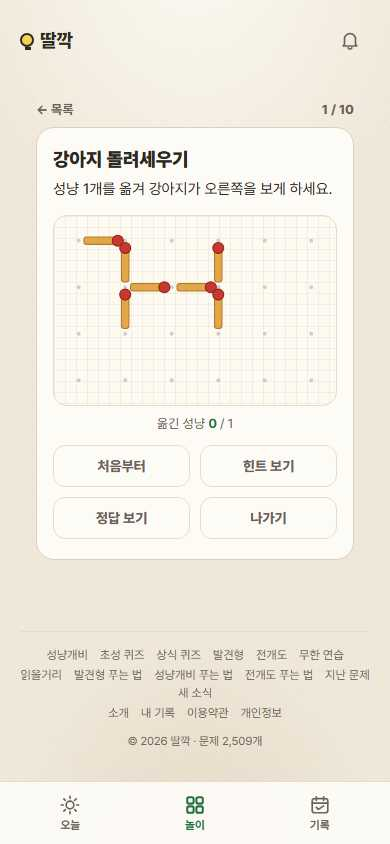
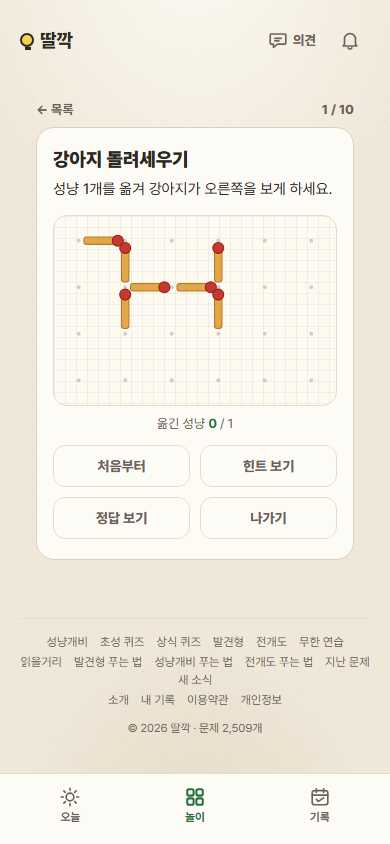
docs: 점검 보고서에 10/14 저녁 작업 반영 — 사용자 지적 5건과 고침, 점검 묶음, 결과 화면 · 새 소식 정리, 발견형 2개

Changed region(s): [[0.0308, 0.7393, 0.9538, 0.9858], [0.6769, 0.0308, 0.8, 0.0616]]

diff --git a/docs/audit-2026-10-14/index.html b/docs/audit-2026-10-14/index.html
@@ -67,13 +67,13 @@
 	figure.wide img { width: 100%; border-radius: 8px; display: block; }
 	figure.wide figcaption { font-size: 12.5px; color: var(--muted); margin-top: 6px; }
 	td code { white-space: nowrap; }
-	.wrap > table { display: block; overflow-x: auto; }
+	@media (max-width: 720px) { .wrap > table { display: block; overflow-x: auto; } }
 </style>
 </head>
 <body>
 <div class="wrap">
 	<h1>딸깍 구조·디자인 점검 보고서 <span style="font-size:15px;color:var(--muted)">(v2 반영)</span></h1>
-	<p class="sub">2026-10-14 · 같은 날 오전 점검(v1) → 개편(v2) 적용 → 운영 사이트 재점검. 개편 전 원본은 <a href="v1.html">v1.html</a>에 그대로 있습니다.</p>
+	<p class="sub">2026-10-14 · 같은 날 오전 점검(v1) → 개편(v2) 적용 → 운영 사이트 재점검 → 저녁 사용자 지적 반영. 개편 전 원본은 <a href="v1.html">v1.html</a>에 그대로 있습니다.</p>
 
 	<div class="card summary">
 		<h3 style="margin-top:0">요약</h3>
@@ -81,13 +81,14 @@
 			<li>v1 보고서가 지적한 문제는 모두 손댔습니다. 고장 4개(전개도 링크, 안 눌리는 카드, 상식 견본, 알림 중복)는 고쳐졌고 운영에서 확인했습니다.</li>
 			<li>화면 틀을 하나로 맞췄습니다. 안내 화면 22개가 같은 머리를 쓰고, 유형 홈은 모두 「어떻게 풀까요?」로 시작합니다. 상식 홈은 8,745px에서 2,953px로 줄었습니다.</li>
 			<li>「오늘 · 놀이 · 기록」 하단 탭, 놀이 허브, 새 소식, 오늘의 미션, 집중 풀이 화면, 상식 대결을 새로 열었습니다.</li>
-			<li>덜 풀린 것도 있습니다. 결과 화면은 초록 버튼과 알림만 줄었고 항목 수는 여전히 11가지입니다. 1번 문제 이탈은 수학 패턴류 5문제를 1번에서 뺀 것까지만 했습니다.</li>
+			<li>결과 화면은 11가지에서 다섯 덩어리(점수 · 알림 · 공유 · 내 기록 · 다음 놀이)로 줄었습니다. 1번 문제 이탈은 수학 패턴류 5문제를 1번에서 뺀 것까지만 했습니다.</li>
 			<li>재점검에서 운영에 나가 있던 문제 2개를 고쳤습니다. 새 소식이 닫아도 다시 뜨던 버그, 그리고 57개 화면에서 구역 사이 여백이 사라져 카드가 붙고 카드 속 카드가 된 것입니다. 뒤의 것은 사용자가 기록 화면에서 먼저 찾았고, 제 점검은 화면을 보면서도 간격을 재지 않아 놓쳤습니다.</li>
+			<li>저녁에 사용자가 다섯 가지를 더 찾았습니다(구역 붙음 · 시트 ✕와 끌어 닫기 · 닫을 때 깜빡임 · 하단 탭이 아이폰 홈 바에 걸림 · 스플래시 반복). 모두 고쳤고, 같은 일이 되풀이되지 않도록 점검 묶음 <code>npm run qa</code>를 만들어 화면을 바꾸면 통과 전에는 완료 보고를 하지 않기로 했습니다(9절).</li>
 			<li>효과는 아직 숫자로 확인되지 않았습니다. 오늘 배포했고, 10/21부터 11/4까지 판정합니다. 한꺼번에 바꿔서 항목별 효과는 나눠 볼 수 없습니다.</li>
 		</ul>
 	</div>
 
-	<p class="toc"><a href="#c1">1 배포 이력</a> · <a href="#c2">2 지적 사항 대조</a> · <a href="#c3">3 화면 길이</a> · <a href="#c4">4 재점검 결과</a> · <a href="#c5">5 남은 일</a> · <a href="#c6">6 기대 효과·판정</a> · <a href="#c7">7 지금 구조</a> · <a href="#c8">8 스크린샷 비교</a></p>
+	<p class="toc"><a href="#c1">1 배포 이력</a> · <a href="#c2">2 지적 사항 대조</a> · <a href="#c3">3 화면 길이</a> · <a href="#c4">4 재점검 결과</a> · <a href="#c5">5 남은 일</a> · <a href="#c6">6 기대 효과·판정</a> · <a href="#c7">7 지금 구조</a> · <a href="#c8">8 스크린샷 비교</a> · <a href="#c9">9 저녁 지적과 점검 묶음</a></p>
 
 	<h2 id="c1">1. 배포 이력 (모두 2026-10-14, main → Cloudflare Pages)</h2>
 	<table>
@@ -102,6 +103,13 @@
 		<tr><td><code>7a20962</code></td><td>재점검 수정</td><td>새 소식을 닫아도 다음 방문에 다시 뜨던 버그</td></tr>
 		<tr><td><code>ea6c0d4</code></td><td>재점검 수정</td><td>「오늘의 딸깍」 → 「오늘의 10문제」, 낡은 「발견형 312문제」, 안 쓰는 컴포넌트 4개 삭제</td></tr>
 		<tr><td><code>aedae6d</code></td><td>재점검 수정</td><td>구역 사이 여백 26px 복구(57개 화면), 구역은 평평하게 · 초성 홈 · 성냥 홈만 카드</td></tr>
+		<tr><td><code>96b5441</code> <code>bf88ff5</code> <code>9462692</code></td><td>새 기능</td><td>의견 보내기 — 헤더 「의견」 말풍선, 주제 7가지 + 글, KV 저장, 개인정보처리방침 · 아침 보고에 확인 추가</td></tr>
+		<tr><td><code>c8eddae</code></td><td>저녁 지적</td><td>아래 시트 공통 부품(BottomSheet) — 끌어 닫기 · 끌어 올리기 · 뒤로가기 · 스크롤 잠금. 스플래시는 처음 한 번만</td></tr>
+		<tr><td><code>8cd1e26</code></td><td>저녁 지적</td><td>시트 ✕ 없앰, 닫을 때 깜빡임 원인 셋 제거, 하단 탭을 아이폰 홈 바 위로(viewport-fit=cover), 토스트를 탭 위로</td></tr>
+		<tr><td><code>1630fbe</code></td><td>점검 묶음</td><td><code>npm run qa</code> 6종 · <code>docs/qa-checklist.md</code></td></tr>
+		<tr><td><code>2cf02e0</code></td><td>마무리</td><td>새 소식: 시트가 뜨면 위 띠는 숨김, 닫으면 띠 · 종의 점이 바로 사라짐</td></tr>
+		<tr><td><code>132dbfa</code></td><td>마무리</td><td>결과 화면 11가지 → 다섯 덩어리(약 2,000 → 1,449px)</td></tr>
+		<tr><td><code>34dce70</code></td><td>마무리</td><td>안 쓰는 /api/teaser 삭제</td></tr>
 	</table>
 
 	<h2 id="c2">2. v1 지적 사항 → v2</h2>
@@ -112,7 +120,7 @@
 		<tr><td>메인 카드 4장이 눌리는 모양인데 링크 없음</td><td>「놀이 고르기」 카드 6장, 모두 그 유형의 홈으로</td><td><span class="st ok">해결</span></td><td>링크 6개: /matchstick /chosung /trivia /discover /cubenet /play</td></tr>
 		<tr><td>상식 견본 보기가 안 눌림, 「풀기」가 8,000px 아래</td><td>보기를 누르면 정답·해설이 펼쳐짐. 맨 위 「어떻게 풀까요?」 타일에 바로 풀기·대결·분야·오늘의 10문제</td><td><span class="st ok">해결</span></td><td>눌러 봄, 타일 4개</td></tr>
 		<tr><td>결과 화면 알림 두 개(8시·9시)</td><td>웹 알림 카드가 뜨면 달력 파일 알림은 숨김</td><td><span class="st ok">해결</span></td><td>결과 화면 알림 버튼 1개</td></tr>
-		<tr><td>결과 화면 과밀(11가지, 초록 큰 버튼 3개)</td><td>초록 큰 버튼 1개, 정오표 한 줄, 「다음 놀이」. 항목 수는 그대로 11가지 안팎</td><td><span class="st part">부분</span></td><td>스크린샷 8 비교</td></tr>
+		<tr><td>결과 화면 과밀(11가지, 초록 큰 버튼 3개)</td><td>점수 · 정오표 → 알림 → 공유 → 「내 기록」 한 줄(연속 · 누적 · 다음 문제까지 · 다시 보기 · 달력) → 「다음 놀이」(연습 권유 한 줄 포함). 초록 큰 버튼 1개</td><td><span class="st ok">해결</span></td><td>스크린샷 8 비교, 1,449px</td></tr>
 		<tr><td>다 넘겨도 「1분 32초 만에 완주」</td><td>「16초 걸렸어요」</td><td><span class="st ok">해결</span></td><td>10문제 전부 「모르겠어요」로 넘겨 봄</td></tr>
 		<tr><td>보너스 문구 중복</td><td>「10 / 10 · 보너스」 한 번</td><td><span class="st ok">해결</span></td><td>진행 표시 10개 기록</td></tr>
 		<tr><td>문제마다 「나가기」 높이가 150 / 142 / 185px</td><td>위쪽 고정, 10문제 모두 69px</td><td><span class="st ok">해결</span></td><td>실측</td></tr>
@@ -195,12 +203,10 @@
 	<h2 id="c5">5. 남은 일</h2>
 	<table>
 		<tr><th>무엇</th><th>지금</th><th>다음</th></tr>
-		<tr><td>결과 화면 과밀</td><td>초록 버튼 1개·알림 1개로 줄었지만 항목은 점수 · 유형 칩 · 알림 카드 · 통계 3칸 · 주간 잔디 · 다시 보기 · 공유 · 카운트다운 · 오늘의 미션 · 놀이 전체 · 연습 권유로 11가지</td><td>공유를 주인공으로 올리고 통계·잔디·다시 보기를 「내 기록」 한 줄로 접기</td></tr>
-		<tr><td>새 소식이 두 번 보임</td><td>다시 온 사람의 메인에서 위 띠와 시트가 같은 소식을 동시에 보여 줌(스크린샷 20)</td><td>시트가 뜨면 띠는 숨김</td></tr>
 		<tr><td>1번 문제 이탈</td><td>패턴류 5문제만 뺌</td><td>10/29 판정 뒤 1번 전용 쉬운 문제 풀</td></tr>
 		<tr><td>상식 접기와 검색</td><td>접은 글도 페이지에 있지만 구글이 덜 무겁게 볼 수 있음. 10/6부터 상식 검색 실험 중</td><td>10/27에 상식 노출이 떨어지면 접기부터 의심</td></tr>
 		<tr><td>초성 분야 추가 · 삼각 격자 그림 퍼즐</td><td>안 함</td><td>v1 순서대로 10/27·11/4 판정 뒤</td></tr>
-		<tr><td>/api/teaser</td><td>쓰던 띠(DailyBand)를 지워 서버 주소만 남음</td><td>지울지 결정</td></tr>
+		<tr><td>실제 아이폰 · 안드로이드 기기 확인</td><td>크롬 휴대폰 흉내 + 아이폰 엔진(WebKit)으로만 시험</td><td>사용자 기기에서 걸리는 것이 나오면 그 항목을 점검 묶음에 더한다</td></tr>
 	</table>
 
 	<h2 id="c6">6. 기대 효과와 판정</h2>
@@ -243,7 +249,7 @@
 		<div class="pair"><figure><img src="img/05-daily-q2.jpg" alt=""><figcaption>v1 「상식 · 1/2」</figcaption></figure><figure><img src="img/v2-05-daily-q2.jpg" alt=""><figcaption>v2 「2 / 10 · 상식」</figcaption></figure></div>
 		<div class="pair"><figure><img src="img/06-daily-match.jpg" alt=""><figcaption>v1 성냥 — 힌트 없음</figcaption></figure><figure><img src="img/v2-06-daily-match.jpg" alt=""><figcaption>v2 「힌트 보기 (1/2)」</figcaption></figure></div>
 		<div class="pair"><figure><img src="img/07-daily-result.jpg" alt=""><figcaption>v1 결과</figcaption></figure><figure><img src="img/v2-07-daily-result.jpg" alt=""><figcaption>v2 결과 — 「걸렸어요」, 정오표 한 줄</figcaption></figure></div>
-		<div class="pair tall"><figure><img src="img/08-result-full.jpg" alt=""><figcaption>v1 결과 전체 — 알림 두 번, 초록 버튼 셋</figcaption></figure><figure><img src="img/v2-08-result-full.jpg" alt=""><figcaption>v2 알림 하나, 초록 하나, 다음 놀이. 항목 수는 그대로(5절)</figcaption></figure></div>
+		<div class="pair tall"><figure><img src="img/08-result-full.jpg" alt=""><figcaption>v1 결과 전체 — 알림 두 번, 초록 버튼 셋</figcaption></figure><figure><img src="img/v2-08-result-full.jpg" alt=""><figcaption>v2 점수 · 알림 · 공유 · 내 기록 · 다음 놀이(저녁 정리 뒤)</figcaption></figure></div>
 		<div class="pair"><figure><img src="img/09-play.jpg" alt=""><figcaption>v1 /play — 파란 링크</figcaption></figure><figure><img src="img/v2-09-play.jpg" alt=""><figcaption>v2 /play</figcaption></figure></div>
 		<div class="pair tall"><figure><img src="img/10-matchstick.jpg" alt=""><figcaption>v1 /matchstick 9블록</figcaption></figure><figure><img src="img/v2-10-matchstick.jpg" alt=""><figcaption>v2 모드 타일, 단계판 접기</figcaption></figure></div>
 		<div class="pair tall"><figure><img src="img/11-chosung.jpg" alt=""><figcaption>v1 /chosung</figcaption></figure><figure><img src="img/v2-11-chosung.jpg" alt=""><figcaption>v2 공통 머리, 끝에 다른 놀이</figcaption></figure></div>
@@ -258,10 +264,39 @@
 		<figure><img src="img/v2-17-cubenet.jpg" alt=""><figcaption>/cubenet 「어떻게 풀까요?」</figcaption></figure>
 		<figure><img src="img/v2-18-trivia-field.jpg" alt=""><figcaption>상식 분야 — 「바로 풀기」 위로</figcaption></figure>
 		<figure><img src="img/v2-19-news.jpg" alt=""><figcaption>/news 새 소식</figcaption></figure>
-		<figure><img src="img/v2-20-news-sheet.jpg" alt=""><figcaption>다시 온 사람에게 한 번 — 위 띠와 겹침(5절)</figcaption></figure>
+		<figure><img src="img/v2-20-news-sheet.jpg" alt=""><figcaption>다시 온 사람에게 한 번 — 위 띠는 숨김</figcaption></figure>
 		<figure class="tall"><img src="img/v2-22-record.jpg" alt=""><figcaption>/record — 구역 사이 여백 복구 뒤</figcaption></figure>
 	</div>
 	<figure class="wide"><img src="img/v2-21-desktop-trivia.jpg" alt=""><figcaption>넓은 화면(1280) — 헤더에 오늘·놀이·기록</figcaption></figure>
+
+	<h2 id="c9">9. 저녁 지적과 점검 묶음</h2>
+	<p>재점검 뒤에도 사용자가 휴대폰에서 직접 써 보고 아래를 먼저 찾았습니다. 공통 원인은 하나입니다 — 「동작한다」만 시험하고 「사람이 휴대폰으로 써도 괜찮다」는 기준 없이 완료라고 보고했습니다.</p>
+	<table>
+		<tr><th>사용자가 찾은 것</th><th>원인</th><th>고침</th></tr>
+		<tr><td>기록 화면 등 구역이 다닥다닥 붙음</td><td>공통 틀로 옮기며 화면별 .sec 여백 규칙을 지움(57개 화면)</td><td><code>aedae6d</code></td></tr>
+		<tr><td>아래 시트에 ✕, 끌어 닫기 · 올리기 없음, 스르륵 올라오지 않음</td><td>시트마다 CSS 애니메이션 한 줄로 따로 만듦</td><td><code>c8eddae</code> <code>8cd1e26</code> 공통 BottomSheet</td></tr>
+		<tr><td>시트를 닫는 순간 검은 막이 깜빡임(아이폰)</td><td>떼어내는 애니메이션 끝 한 프레임 · 하단 탭 흐림(backdrop-filter) · html overflow 잠금</td><td><code>8cd1e26</code> — WebKit 3회 측정에서 다시 진해지는 프레임 0</td></tr>
+		<tr><td>하단 탭이 아이폰 홈 바에 걸림</td><td>viewport-fit=cover가 없어 홈 바 높이가 늘 0</td><td><code>8cd1e26</code> — 탭 버튼이 바닥에서 40px</td></tr>
+		<tr><td>메인에 돌아올 때마다 스플래시</td><td>레이아웃이 메인에서만 스플래시를 그려 다시 만들어짐</td><td><code>c8eddae</code> — 탭 · 새로고침에서 안 뜸</td></tr>
+	</table>
+	<h3>점검 묶음 — <code>npm run qa</code></h3>
+	<p>위 실수 하나하나가 시험 항목이 됐습니다. 화면을 바꾸면 이것과 <code>docs/qa-checklist.md</code>(눈으로 볼 것)를 통과하기 전에는 완료라고 보고하지 않습니다(저장소 CLAUDE.md 규칙).</p>
+	<table>
+		<tr><th>시험</th><th>무엇</th></tr>
+		<tr><td>sweep</td><td>사이트맵 전 화면 390 · 320px — 콘솔 오류 · 가로 넘침 · 깨진 이미지 · 내부 링크</td></tr>
+		<tr><td>gaps</td><td>상자 사이 간격 실측 — 붙음 · 겹친 여백</td></tr>
+		<tr><td>flow</td><td>흐름 37개 — 데일리 완주 · 결과 · 재방문 · 유형별 · 기록 · 탭</td></tr>
+		<tr><td>sheet</td><td>실제 터치로 시트 끌기 · 튕기기 · 뒤로가기, ✕ 없음, 깜빡임, 홈 바, 스플래시, 새 소식 중복</td></tr>
+		<tr><td>lock</td><td>시트 열린 동안 뒤 화면 스크롤 잠금</td></tr>
+		<tr><td>webkit</td><td>아이폰 엔진 — 깜빡임 · 스플래시 · 아이폰 SE · 13 넘침</td></tr>
+	</table>
+	<h3>그날의 발견형 문제</h3>
+	<p>후보 7개를 만들어 검수에 넘겼고 5개가 반려됐습니다(엑셀 열 번호 — 3초 룰, 연속 세 글자 클럽 — adjacent-letters와 중복, 전자레인지 — hidden-clock-add와 중복, 가위바위보 — 연립식으로 풀림, 자판 위 숫자 — 자판 계열 중복). 통과 1(<code>en-letter-names</code>: XL → EXCEL … AT → EIGHTY)과 조건부 1(<code>en-multitap</code>: CAT → 5 … YES → 9, 예시 ASK · ZOO를 더해 옛 배열 대안을 막음)을 넣었습니다(<code>9605326</code>, 10/15부터 출제). 셋째는 억지로 채우지 않았습니다.</p>
+	<div class="shots">
+		<figure class="tall"><img src="img/v2-08-result-full.jpg" alt=""><figcaption>결과 화면 — 다섯 덩어리</figcaption></figure>
+		<figure><img src="img/v2-23-feedback.jpg" alt=""><figcaption>의견 보내기 — ✕ 없는 시트</figcaption></figure>
+		<figure><img src="img/v2-20-news-sheet.jpg" alt=""><figcaption>새 소식 시트 — 위 띠 숨김</figcaption></figure>
+	</div>
 
 	<p class="sub" style="margin-top:40px">조사 방법: v1은 오전 점검(<a href="v1.html">v1.html</a>). v2는 운영 사이트를 GA·광고·서버 기록을 막은 새 브라우저로 열어 처음 온 사람과 다시 온 사람으로 따라감 · 사이트맵 전수와 링크 지도 · 상자 사이 간격 실측 · 코드 검색 · svelte-check · vitest · 빌드. 숫자 판정은 GA4 한국 기준, 개편 전 4주와 비교.</p>
 </div>
